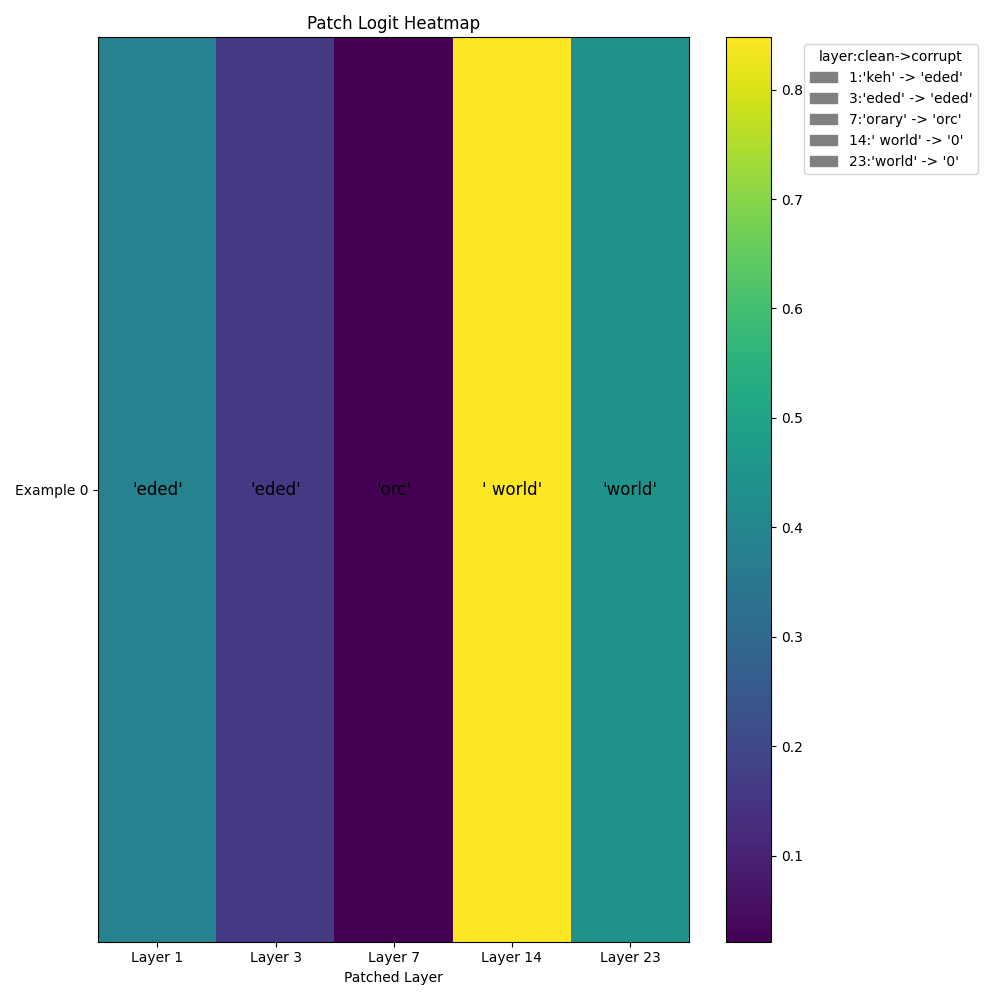
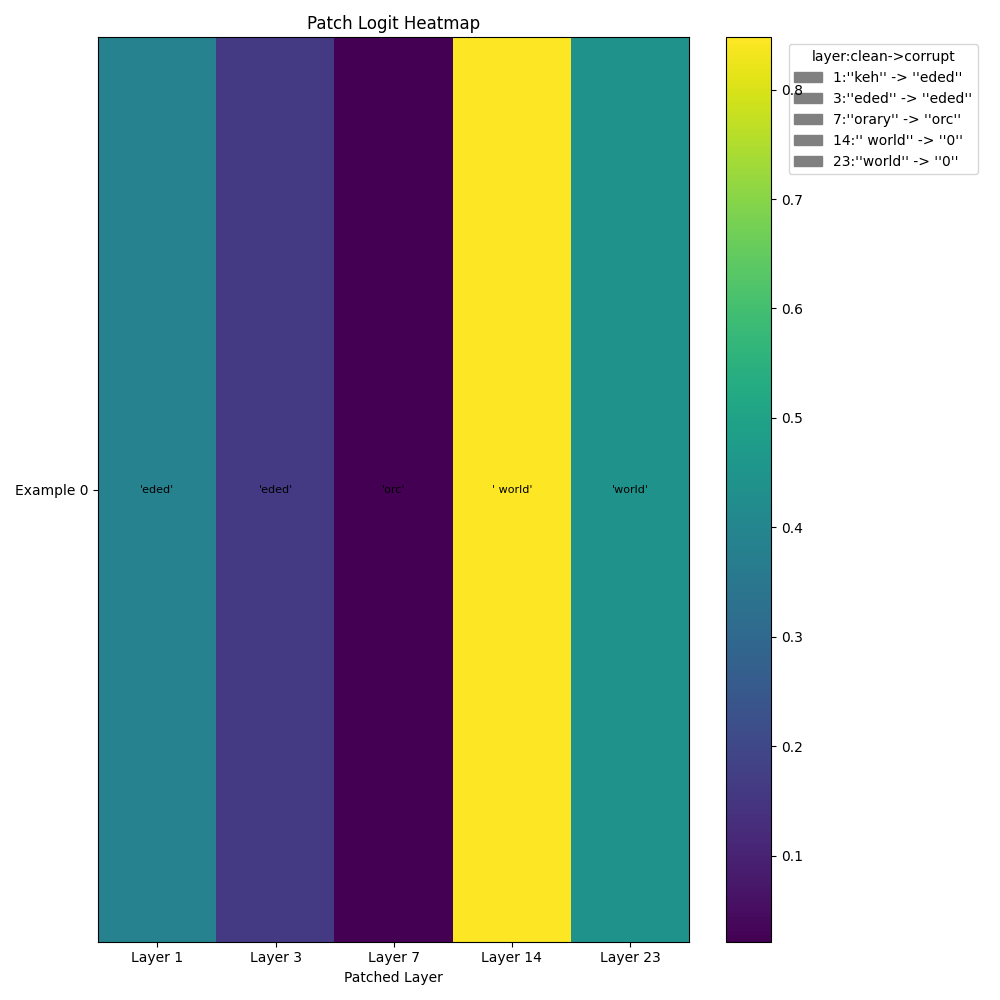
save

diff --git a/interp_vis.py b/interp_vis.py
@@ -27,8 +27,8 @@ def patch_logit_heatmap(model : LanguageModel,
                         figtitle : str = "Patch Logit Heatmap",):
     """
     Given hidden states from a patch clean[j]->corrupted[j] at layers,
-    do a heatmap where x is layers, y is original top token logit at (layer, i) in corrupted
-    and color is patched top token logit at (layer, i) in patched.
+    do a heatmap where x is layers, y is prompt num
+    and color is the top token at last lauer AFTER patch at (layer, i)
     Legend stores the patched in token from clean[j]
     Store original clean prediction and corrupted predicion?
     """
@@ -69,8 +69,8 @@ def patch_logit_heatmap(model : LanguageModel,
     # for each probability square, legend shows relative clean_tok->corr_tok
     patches = []
     for i,(a,b) in enumerate(list(zip(clean_token_pred, corrupt_orig_pred))):
-        patches.append(mpatches.Patch(color='grey', label=f"{layers_patched[i]}:'{a}' -> '{b}'"))
-    plt.legend(handles=patches, loc="upper right", bbox_to_anchor=(1.5, 1.0), title="layer:clean->corrupt")
+        patches.append(mpatches.Patch(color='grey', label=f"{layers_patched[i]}:'{repr(a)}' -> '{repr(b)}'"))
+    plt.legend(handles=patches, loc="upper right", bbox_to_anchor=(0.5, 1.0), title="original layer:clean->corrupt")
     
     # build an annotations dict for each square in grid with values from probs_patched_results
     annotations = {i:{} for i in range(len(x_axis_labels)*len(y_axis_labels))}
@@ -84,7 +84,23 @@ def patch_logit_heatmap(model : LanguageModel,
 
     # add annotations
     for pos, text in annotations.items():
-        plt.annotate(text["toptok"], xy=positions[pos],color="black", fontsize=12, ha="center", va="center")
+        plt.annotate(text["toptok"], xy=positions[pos],color="black", fontsize=8, ha="center", va="center")
 
     plt.tight_layout()
     plt.savefig(figtitle.lower().replace(" ", "_") + ".png")
+    
+    
+def patch_logit_heatmap_for_prediction(model : LanguageModel,
+                        clean_prompt : List[str] | str, 
+                        corrupted_prompt : List[str] | str,
+                        patched_logits : TraceResult,
+                        layers_patched : List[int],
+                        clean_token_idx : int,
+                        corrupted_token_idx : int, 
+                        figsize : Tuple[int,int] = (10,10),
+                        figtitle : str = "Patch Logit Heatmap",):
+    """
+    Cells on heatmap should be the final token top logit that changes
+    after patch
+    """
+    pass

diff --git a/interp_utils.py b/interp_utils.py
@@ -15,6 +15,7 @@ from typing import List
 import transformers
 import copy
 
+
 class TraceResult:
     """
     Wrapper over full component hidden states and logits
@@ -85,6 +86,16 @@ class TraceResult:
         return self._select(values, layers, token_idx, prompt_idx)
         
 
+def layer_union(traces : List[TraceResult], store_hidden_states=False) -> TraceResult:
+    """
+    Union of all layers
+    """
+    logits = torch.stack([trace.logits for trace in traces], dim=0).mean(dim=0)
+    hidden_states = None
+    if store_hidden_states:
+        hidden_states = torch.stack([trace.hidden_states for trace in traces], dim=0).mean(dim=0)
+    return TraceResult(logits, hidden_states)
+
 
 def collect_hidden_states(model : LanguageModel,
                           prompts : List[str]) -> List[torch.Tensor]:
@@ -144,7 +155,7 @@ def patch_clean_to_corrupt(model : LanguageModel,
                      corrupted_index : int,
                      layers_to_patch : list[int],
                      apply_norm : bool = True,
-                     store_hidden_states : bool = True) -> TraceResult:
+                     store_hidden_states : bool = False) -> TraceResult:
     """
     Patch from clean prompt to corrupted prompt
     clean_idx -> corrupted_idx at target layers. Patches from same layers in clean prompt.

diff --git a/test_utils.py b/test_utils.py
@@ -2,6 +2,7 @@ from interp_utils import *
 from interp_vis import *
 from nnsight import LanguageModel
 
+# re-run this
 # NOTE: make sure padding is left side for list of prompts,
 # to enable -1 indexing (most common)
 
@@ -24,8 +25,8 @@ def test_logit_pipeline():
     assert hs.shape[3] == model.config.n_embd, hs.shape
     
     logits = logit_lens(model, prompts)
-    tok_world = logits.score_top(1).get_tokens(model, layers = list(range(24)), prompt_idx=0)[-1]
-    tok_0 = logits.score_top(1).get_tokens(model, layers = list(range(24)), prompt_idx=1)[-1]
+    tok_world = logits.score_top(1).get_tokens(model, layers = [23], prompt_idx=0)[0]
+    tok_0 = logits.score_top(1).get_tokens(model, layers = [23], prompt_idx=1)[0]
     assert tok_world == "world", tok_world
     assert tok_0 == "0", tok_0
     

diff --git a/type_inf_exp/view_completions.py b/type_inf_exp/view_completions.py
@@ -37,9 +37,9 @@ print(f"Total: {len(df)}")
 df["id"] = df.index
 df = df.sort_values(by=["correctness", "solution"])
 df = df.reset_index(drop=True)
-with open("data/completions/starcoderbase-1b-completions_typeinf_analysis.csv", "w") as f:
-    # remove prompt column
-    df.drop(columns=["prompt"]).to_csv(f)
+# with open("data/completions/starcoderbase-1b-completions_typeinf_analysis.csv", "w") as f:
+#     # remove prompt column
+#     df.drop(columns=["prompt"]).to_csv(f)
 
 ds = datasets.Dataset.from_pandas(df)
 ds.push_to_hub("franlucc/starcoderbase-1b-completions_typeinf_analysis")

diff --git a/todo.md b/todo.md
@@ -1,95 +1,3 @@
 # TODO
 
-Methods
-
-- logit lens (with generation?)
-    [X] logit lens no generation (top logit)
-- attn viz
-    [X]
-- general patching from->to (with generation?)
-    [below]
-
-Experiments
-
-[] ts dataset
-    [] logit lens of wrong/right examples
-    [] attn viz of wrong/right examples
-
-
-## Notes
-
-Stracoderabse-1b uch more vulnerable to trivial "confusing" edits of var names than 7b, 15b
-
-# using gpt_bigcode in nnsight
-
-to use Gpt_bigcode models in nnsight do this: after line 997 of modeling_gpt_bigcode.py add 
-
-```
-if len(position_ids.shape) == 1:
-    position_ids = position_ids.reshape(1, position_ids.shape[0])
-    ## repeat for batch_size
-    position_ids = position_ids.expand(batch_size, -1)
-```
-
-Note this is a temporary hack and I have no idea if this breaks anything else
-and remove `@torch.jit.script`
-
-## Wrong vs correct examples
-
-wrong examples can be patched with types from "correct" runs at later layers, eg.18
-Question: is the LLM doing the wrong circuit, or it the correct circuit but wrong algorithm?
-- if wrong circuit, we need to identify right one
-- if correct circuit, identify the algorithm it's using
-
-How to verify this?
-- Can I patch "wrong" examples onto "wrong" examples
-    - I can. This means LLM thinks it's doing the right thing, but it's not.
-
-The idea is that by layer 14/18 there is a complete type "indicator". But we want to modify this indicator to be the "correct" type. 
-
-What to do now?
-- can ICL examples help?
-
-We know the "correct" predictions are in the top 10 logits.
-- do a pass@100 sample generation to verify this
-
-Idea:
-- find the incorrect algorithm it's using
-- use that knowledge to steer the model to the correct algorithm
-
-## Idea
-
-mask distractors? 
-- better dataset
-    - **maybe revisit steno and add own renaming**
-
-
-
-## Design
-
-"prompt" class
-- model
-- to patch or to collect
-
-or maybe "batch" class
-
-```
-batch1 = Batch(model, prompts)
-batch2 = Batch(model, prompts)
-with batch1.collect(layers=[2,3]) as collector:
-    with batch2.patch(layers=[2], idx=[(<fim-suf>,<fim-pre>)]) as patcher:
-        pather.patches = [2 : (2,3), 3 : [(3,4),(3,5)]]
-        # do stuff
-        activations = collector.activations
-        patcher.patch(activations)
-```
-constraint: can only patch from same layer to same layer
-- can patch any idx
-
-don't waste too much time on this
-
-
-## Today
-
-[] better dataset - steno with own renaming
-[] what is going on in "wrong" examples - what is the algorithm
+- interp utils go out of mem, store more in disk/cpu
